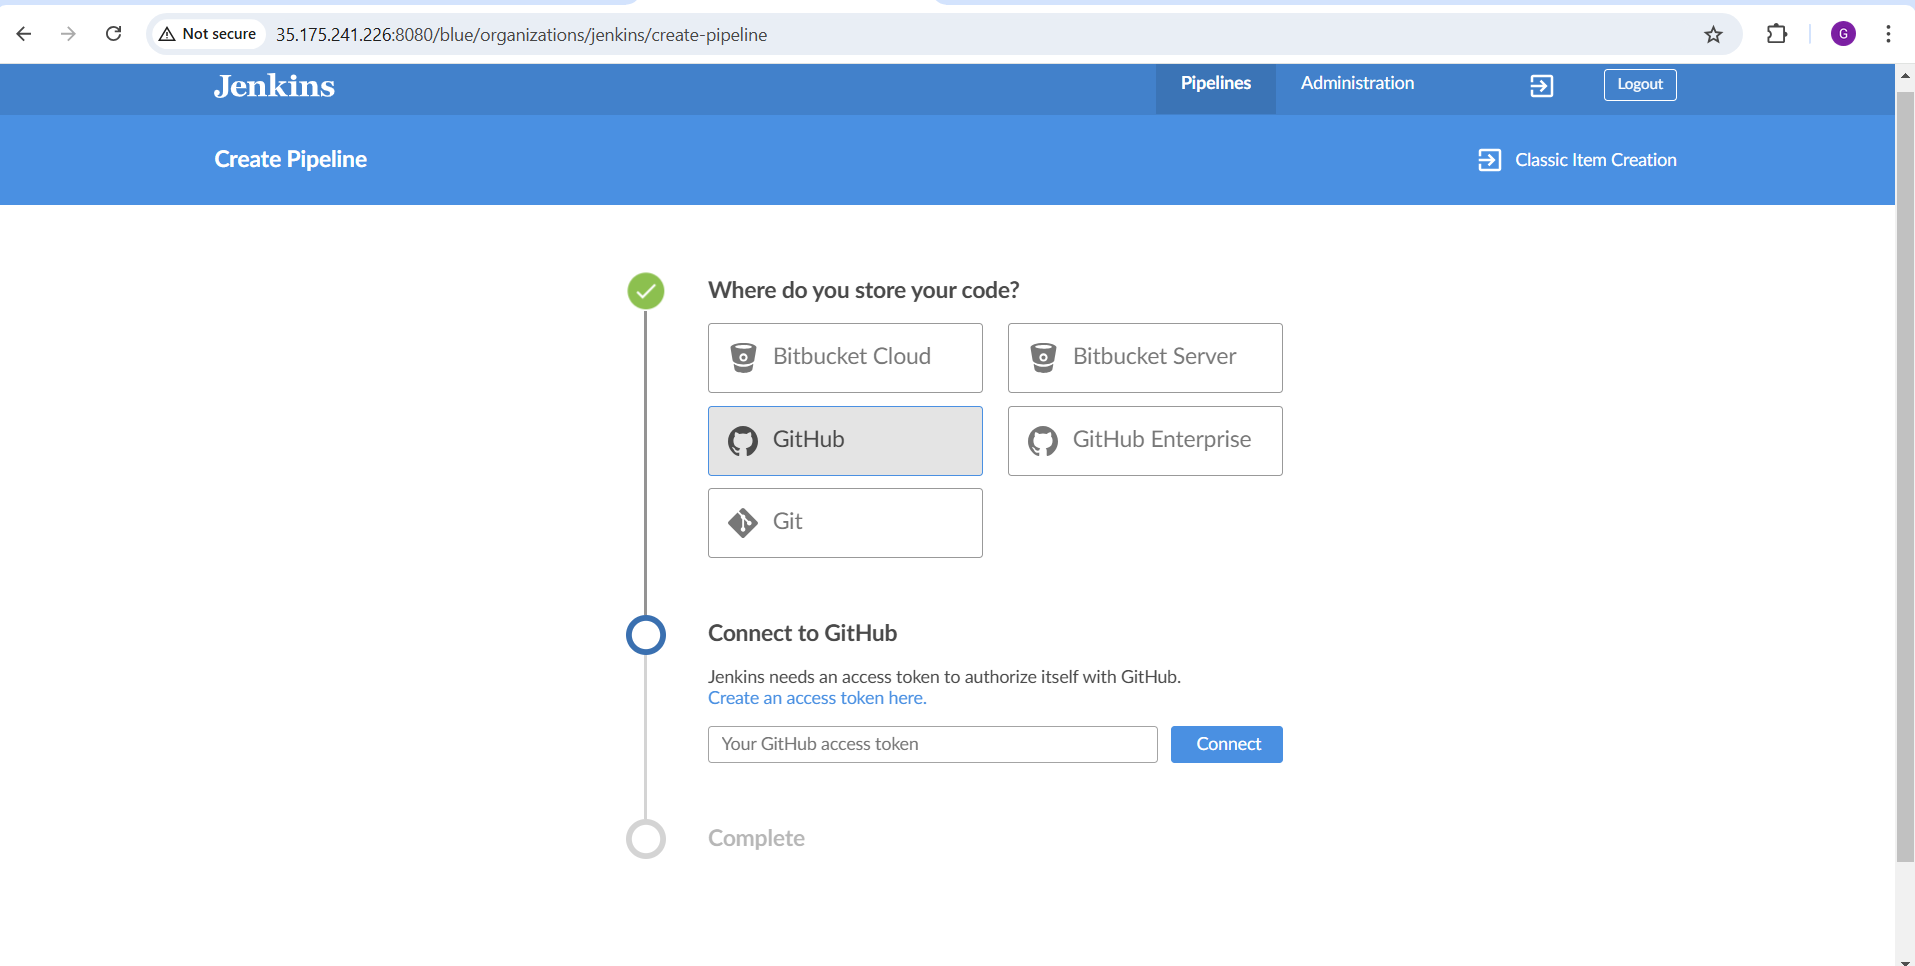
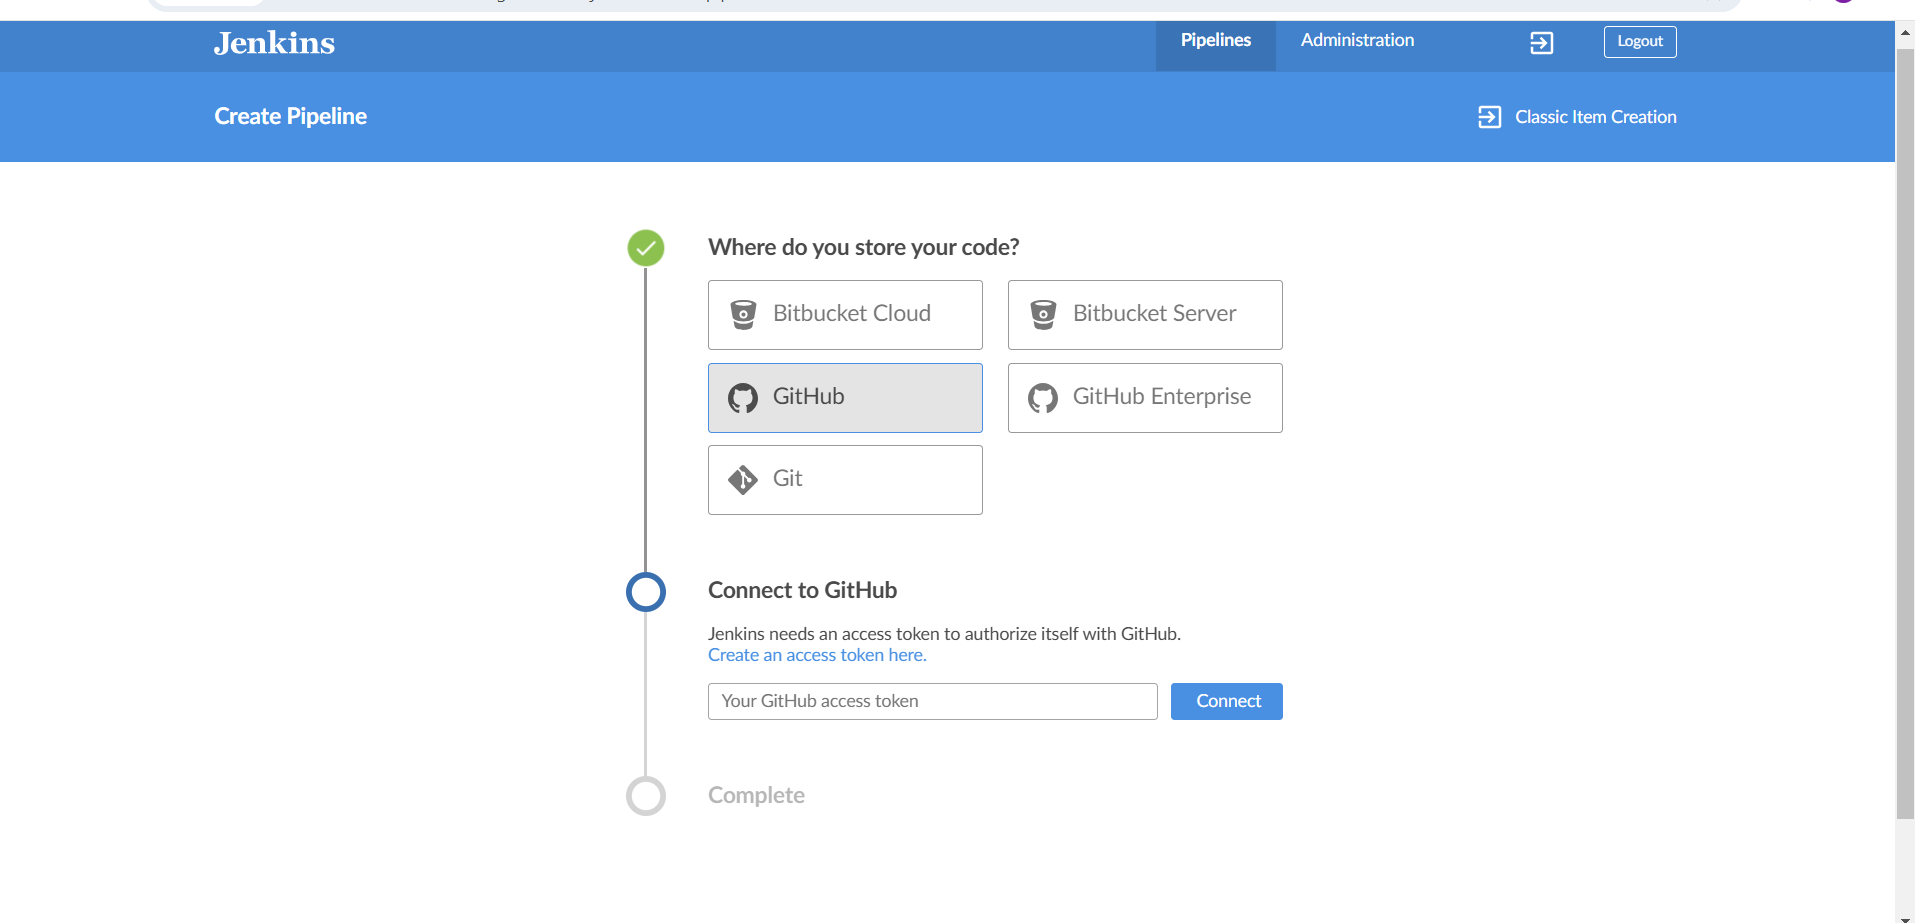
file added

diff --git a/Experience_Continuous_Integration_with_Jenkins_Ansible_ART/Experience_CI_with_jenkins_doc.md b/Experience_Continuous_Integration_with_Jenkins_Ansible_ART/Experience_CI_with_jenkins_doc.md
@@ -340,6 +340,7 @@ In previous projects, you have been launching Ansible commands manually from a C
 
 **Step 7: Pasted the Token and Connected**
    - After pasting the token, I clicked **Connect** to successfully link Jenkins with my GitHub account.
+   ![Creating the React App](./self_study/images/b.png)
 
 **Step 8: Chosen the Repository for the Pipeline**
    - In Jenkins, I searched for my repository (e.g., `ansible-project`) and selected it.
@@ -763,6 +764,27 @@ ansiblePlaybook(
 We already have the **tooling** website deployed through Ansible. Now, we introduce another PHP application to expand our managed infrastructure. This application includes unit tests, making it an ideal candidate for demonstrating an end-to-end CI/CD pipeline.
 
 Our goal is to deploy the application directly from **Artifactory** instead of **git**. If your Ansible setup lacks an Artifactory role, you can create one using [this guide](https://www.jfrog.com/confluence/display/RTF/Installing+and+Configuring+Artifactory).
+
+
+Here’s the updated explanation, including that you followed these steps and plan to add screenshots:
+
+---
+
+### Steps to Create Artifactory Account and Repository
+
+I followed these steps to create an account and set up a repository in **Artifactory Cloud**:
+
+1. **Create an Artifactory Cloud Account**:
+   - I visited the **Artifactory Cloud** website ([jfrog.com](https://jfrog.com/start-free/)).
+   - Signed up by providing my email, organization name, and other necessary details.
+   - Confirmed my email and logged in to the newly created account.
+   ![Creating the React App](./self_study/images/af.png)
+  
+2. **Create a Repository in Artifactory**:
+   - After logging in, I navigated to the **"Repositories"** section.
+   - Clicked on **"Create Repository"** and selected the type of repository (e.g., Generic).
+   - Named the repository `Todo-dev-local`and saved the settings.
+    ![Creating the React App](./self_study/images/addd.png)
 
 ---
 
